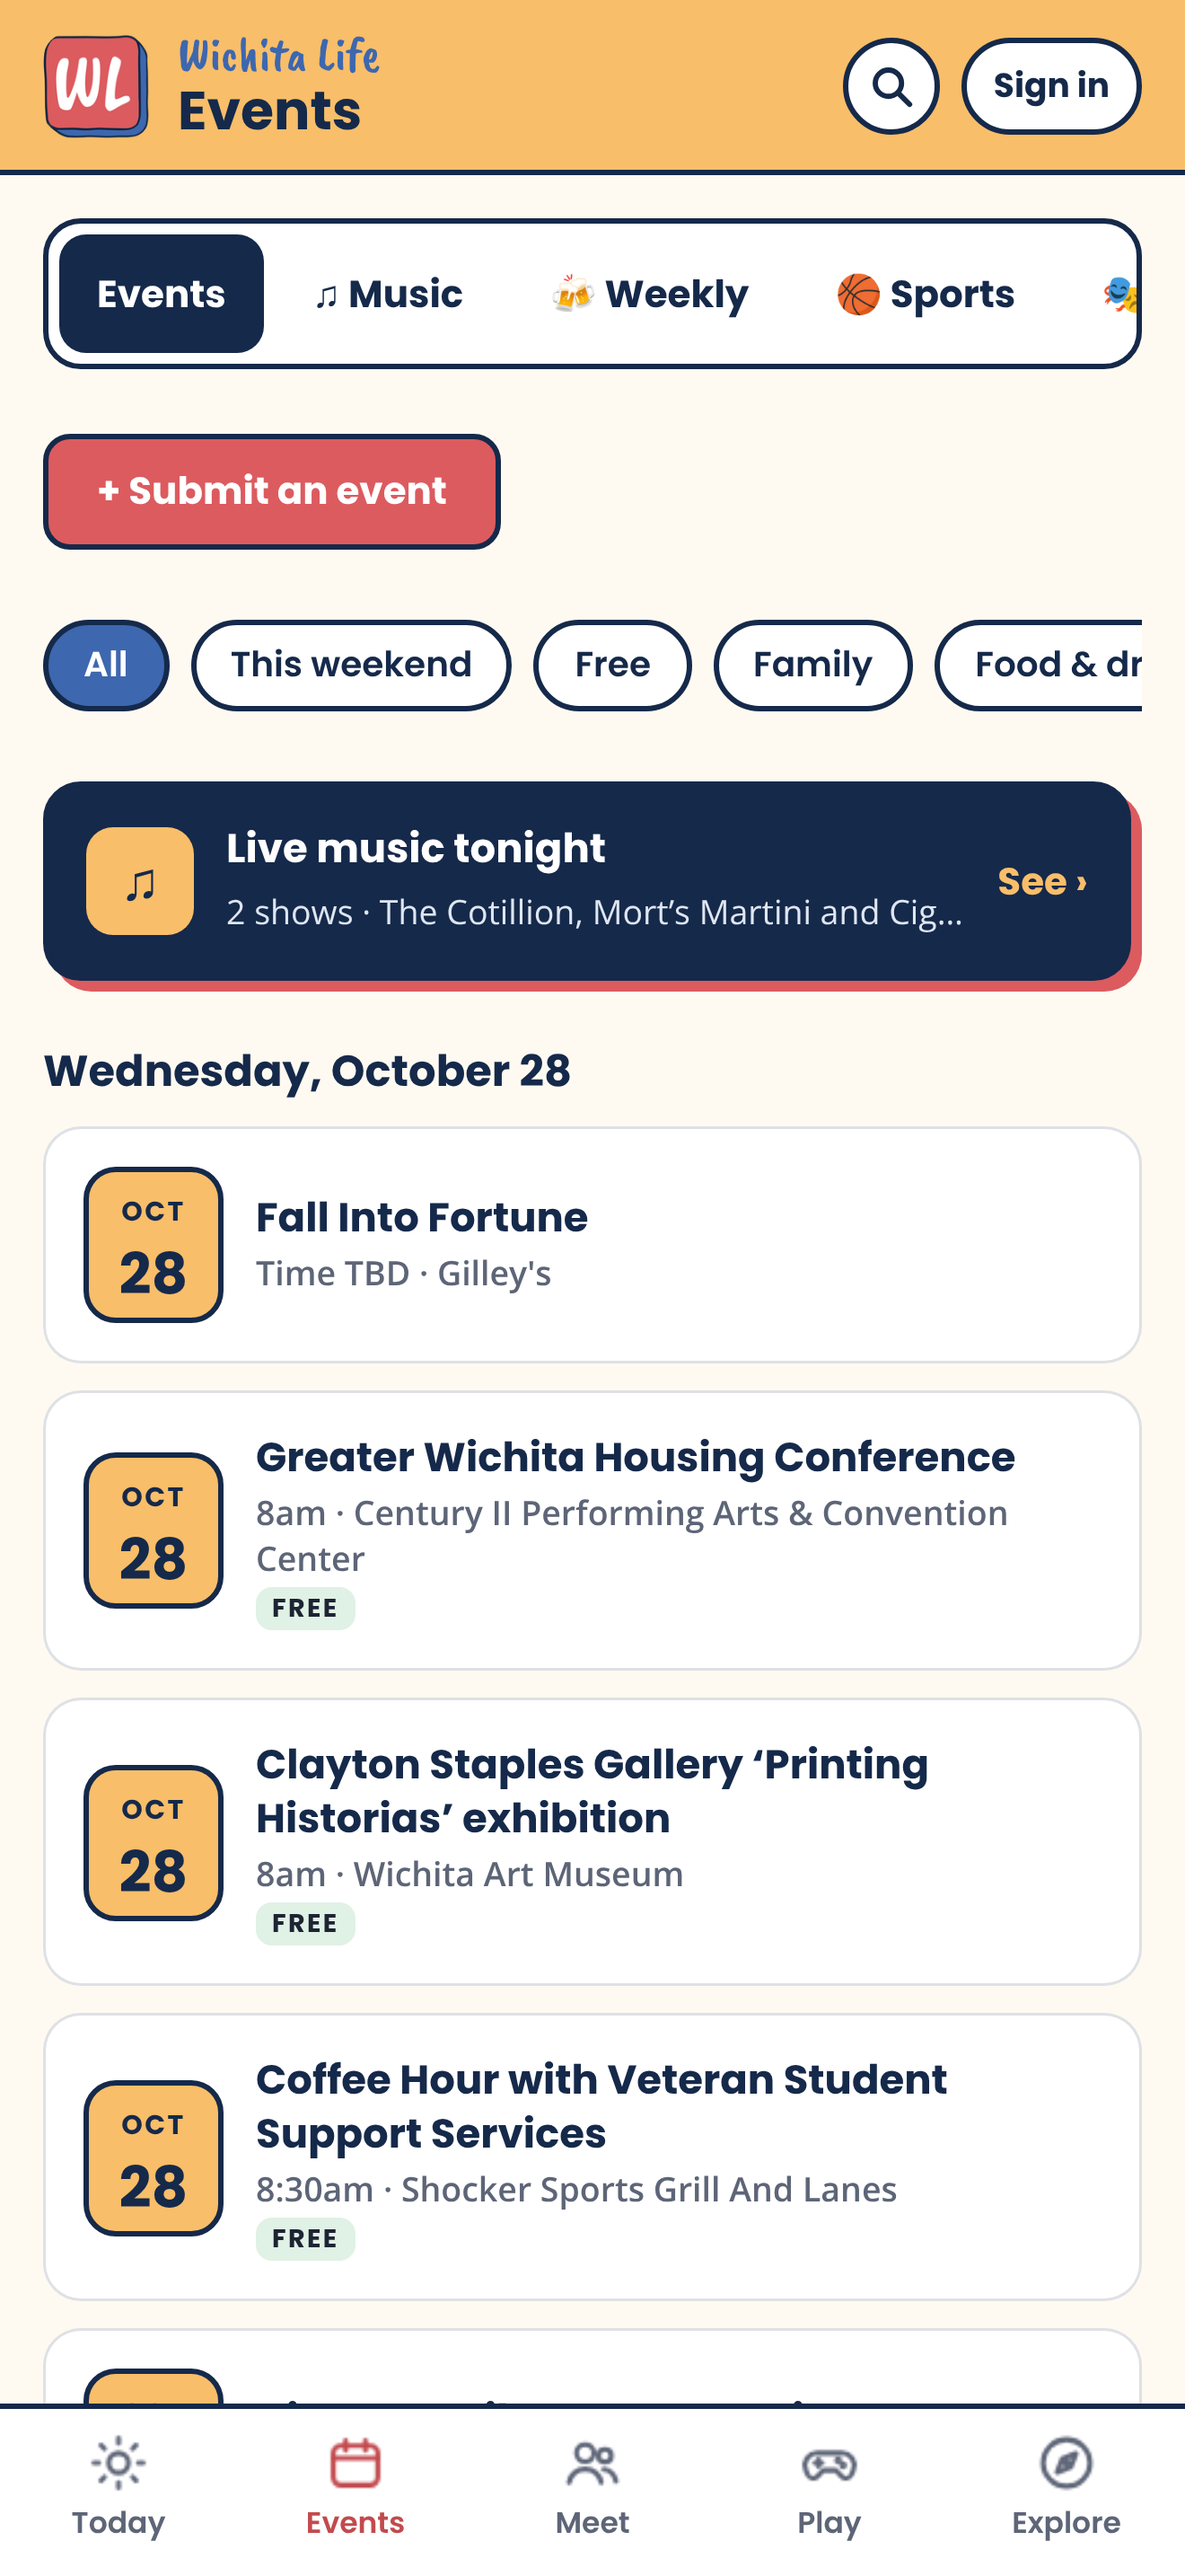
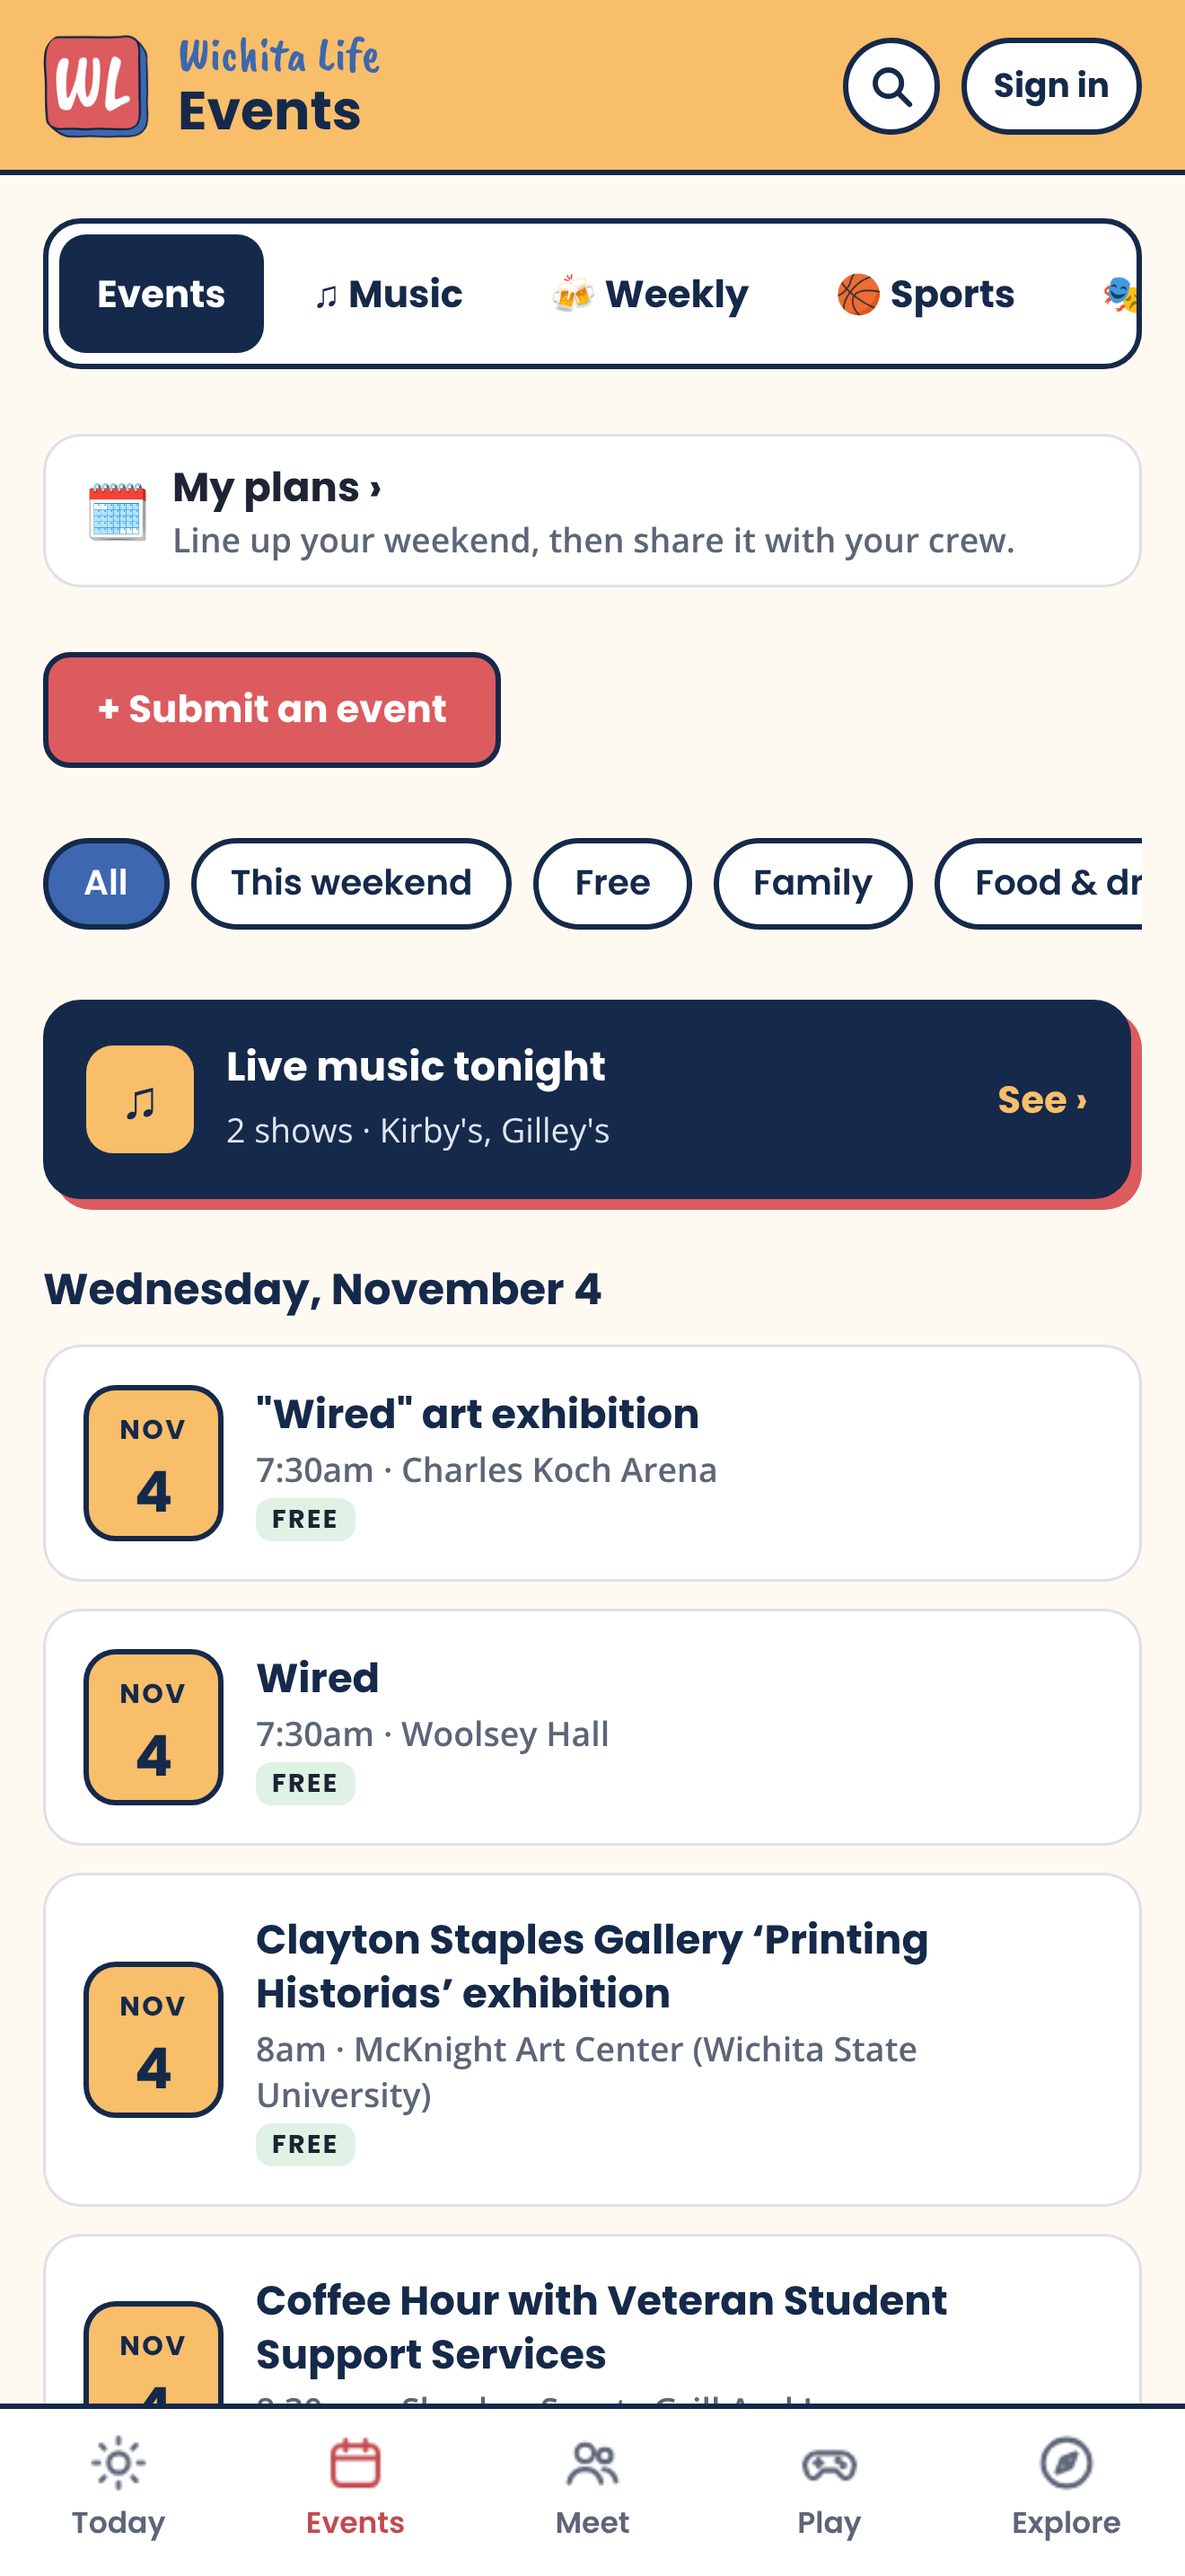
Fix Meet tab for signed-out visitors; retake store screenshots with Plans
- Signed-out board and Meet queries failed after the profile column grants; anon gets the same
  safe columns back (row security still shows them no profile rows)
- New screenshots: Today, Events, Live music, a staff-pick plan, Happy hours & trivia, Where to eat,
  Play, Meet (iPhone 6.9" and Android)

Claude-Session: https://claude.ai/code/session_01RVvxjtAiL6j1MniaJt2d1E

diff --git a/docs/STORE_LISTING.md b/docs/STORE_LISTING.md
@@ -143,6 +143,6 @@ Paste into App Review Information → Notes:
 
 1. ✅ **Sign in with Apple** is in the app. To turn it on: Supabase → Authentication → Sign In / Providers → Apple → enable, and put `com.wichitalifeict.app` in Client IDs (no secret key is needed for the iPhone app).
 2. ✅ **A reviewer login.** The sign-in screen has "Have a password? Sign in with it". Create the account in Supabase → Authentication → Users → Add user → Create new user: `appreview@wichitalifeict.com`, a strong password, Auto Confirm on. Paste the same email and password into App Store Connect → App Review Information (and Google Play → App access).
-3. **Screenshots.** Ready in `store/screenshots/`: `iphone/` (1320 × 2868, the 6.9" size App Store Connect asks for) and `android/` (phone). Upload them in file-name order, 1 to 8: Today, Events, Live music, Arts, Happy hours & trivia, Giveaway, Meet, Explore.
+3. **Screenshots.** Ready in `store/screenshots/`: `iphone/` (1320 × 2868, the 6.9" size App Store Connect asks for) and `android/` (phone). Upload them in file-name order, 1 to 8: Today, Events, Live music, a Plan, Happy hours & trivia, Where to eat, Play (giveaway), Meet. Retaken Nov 4 from the live app.
 4. **Remove the sample content** (giveaway, meetups, groups) and have at least one real giveaway or vote live, since reviewers try everything.
 5. **Lawyer review** of the privacy policy, terms and giveaway rules. The privacy policy must mention PostHog, Supabase and Resend.
